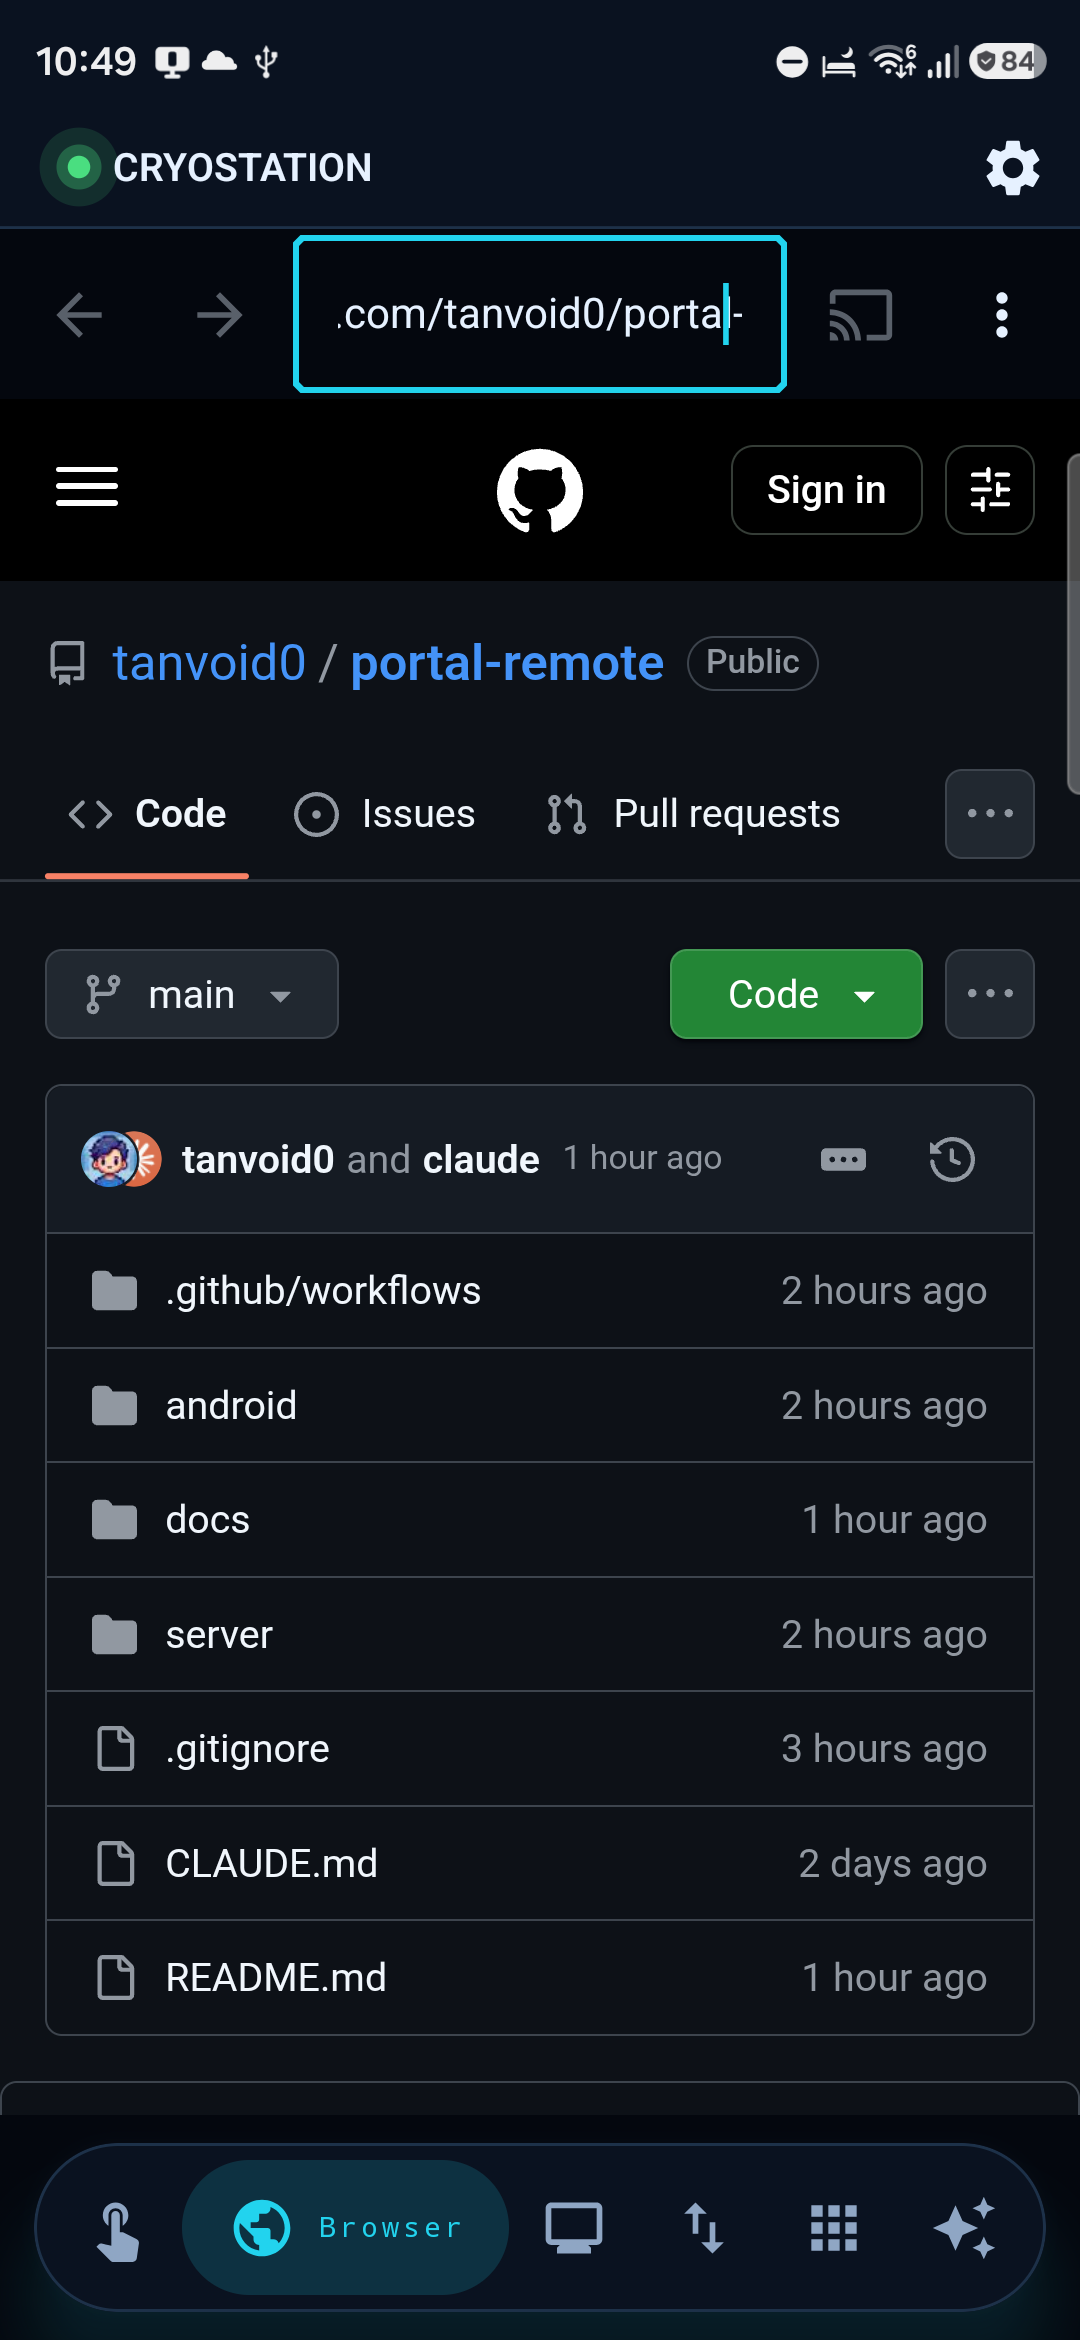
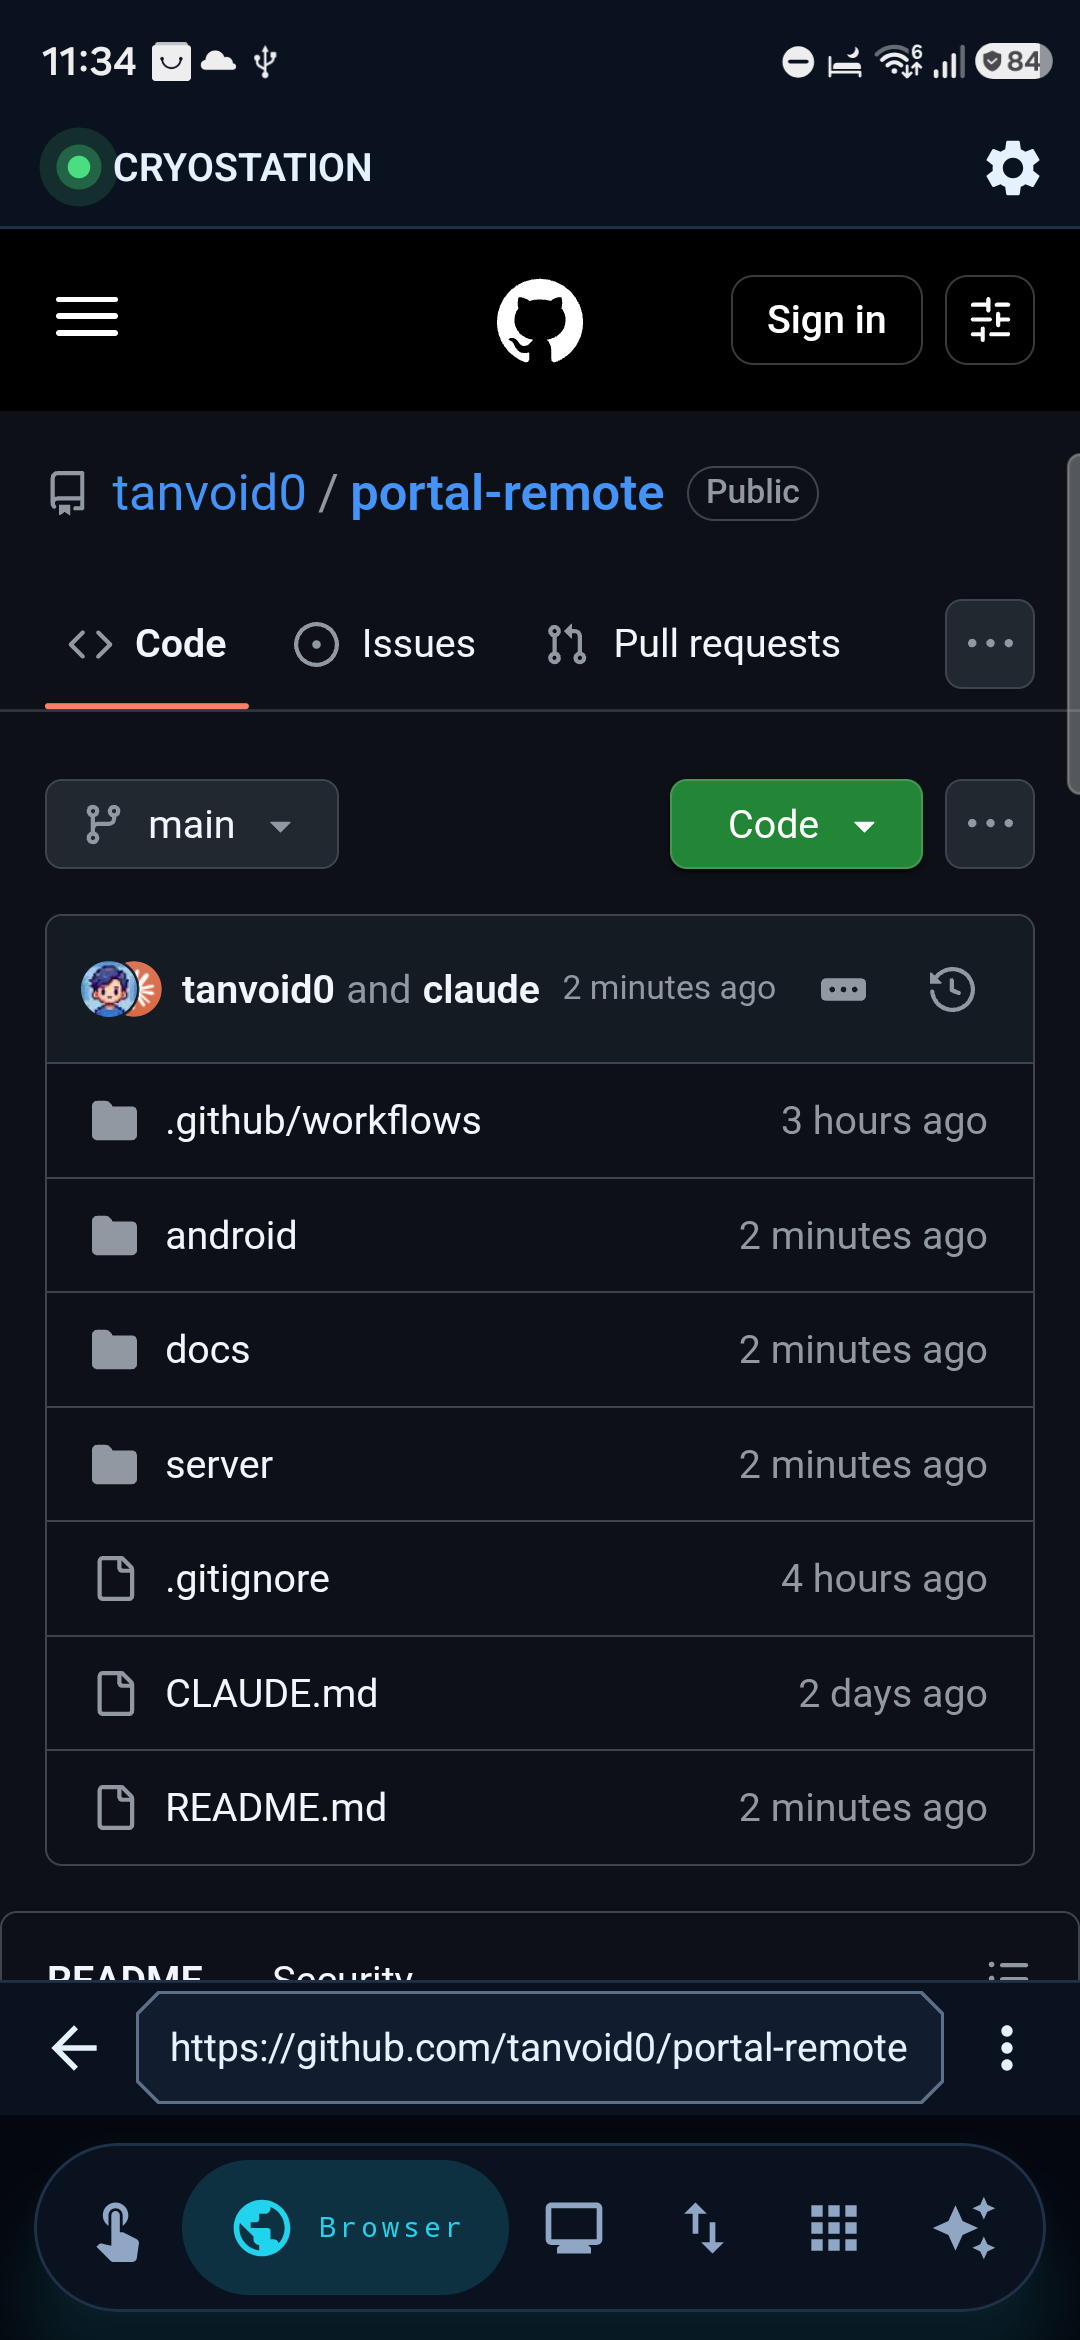
docs: write down why the browser's address bar is hand-rolled, and prove the blocker works
The bar's decisions were all in the code and none of them in the design system,
which is where the next person looks before rebuilding one: the address field is
a BasicTextField because OutlinedTextField clips its own text once forced below
its assumed ~56dp height; back/forward/cast appear only when they would do
something, because a permanently disabled control is space the field needs more;
the bar hides on scroll down and returns on scroll up; and submitting clears
focus, since Compose's Go action leaves the keyboard sitting over the page you
just asked for.

Cookie-prompt auto-decline was shipped undocumented. Written up with what it
actually covers — seven consent vendors by selector, plus a generic pass over
containers whose button text is exactly reject/decline/disagree — and why it is
retried on both an interval and a MutationObserver, banners being routinely
injected long after load.

The blocker is now verified live rather than asserted: canyoublockit.com's
Simple and eXtreme tests on a paired phone, every third-party slot empty, the
site's own detector conceding, and the pop-under test leaving the tab count at
1. The section also records what it does *not* stop — the self-hosted
interstitial survives, because it is first-party and a hostname blocker has
nothing to match on.

The README's browser shot claimed adblock in its alt text while showing a page
that demonstrated none of it. It now describes what it actually shows (the
[…]

diff --git a/docs/phase4-casting.md b/docs/phase4-casting.md
@@ -768,6 +768,15 @@ bare word with no dot is a search — `recipes` must never become `https://recip
   throwaway-WebView transport trick (`onCreateWindow` never tells you the target
   URL). Non-`http(s)` schemes are refused outright — `intent://` and `market://`
   are how a page throws you into an app store.
+- **Cookie-prompt auto-decline** — a script run on `onPageFinished` that clicks
+  reject/decline on the handful of consent-banner vendors that cover most of the
+  market (OneTrust, Cookiebot, Quantcast/IAB TCF, Didomi, TrustArc, Osano,
+  Sourcepoint), plus a generic pass over any cookie/consent/GDPR container whose
+  button text is exactly "reject"/"decline"/"disagree". Retried on an interval and
+  through a `MutationObserver`, both giving up after a few seconds, since banners
+  are routinely injected well after load. On by default with its own switch in
+  Privacy & blocking, because a wrong click on a consent dialog can leave a page
+  stuck and the escape hatch has to be reachable without a rebuild.
 - **Media sniffing** — `shouldInterceptRequest` classifies by extension
   (`.m3u8`/`.mpd`/`.mp4`/`.webm`/`.mkv`/`.mov`), plus a `<video>` scan on
   `onPageFinished` for players that set `src` directly and never generate an
@@ -784,6 +793,16 @@ walk (including that a malformed `com` rule can't take the whole web down), the
 segment and blob exclusions, the address-vs-search decision, and history
 capping/dedup. An earlier build with the single-tab version installed and opened on
 the device.
+
+**Verified live against `canyoublockit.com`** (Simple and eXtreme tests), on a paired
+phone: every third-party ad slot came back empty and the site's own detector fired its
+"Adblocker detected … preventing the page from fully loading" notice, which is the
+site conceding the point. The pop-under test — "clicking anywhere on this page will
+trigger an ad in a new tab" — left the tab count at 1. Both match what this section
+claims and what it doesn't: the **self-hosted interstitial still appears**, because it
+is first-party and a hostname blocker has nothing to match on; killing it needs the
+cosmetic rules the parser deliberately skips. The README's
+`android-browser-adblock.png` is that run.
 
 **One bug the pixels caught that the tree did not:** the WebView Box used
 `fillMaxSize()` inside a `Column`, so it claimed the full height and — being a real

diff --git a/README.md b/README.md
@@ -21,7 +21,7 @@ PC.
   <img src="docs/assets/screenshots/android-stats.png" width="180" alt="Monitor tab, stats mode in dark: lit CPU and memory dials, a glowing minute-long load trace, and a lit cell per logical core">
   <img src="docs/assets/screenshots/android-stats-light.png" width="180" alt="The same dashboard in light mode: identical panels, dials and meters redrawn as ink on paper rather than light on black">
   <img src="docs/assets/screenshots/android-stats-detail.png" width="180" alt="Monitor tab, stats mode scrolled down: the mirrored network trace, a segmented meter per fixed drive, and the processes using the most CPU">
-  <img src="docs/assets/screenshots/android-browser.png" width="180" alt="Browser tab: an in-app browser with adblock, showing this project's own repository, with the cast button beside the address bar">
+  <img src="docs/assets/screenshots/android-browser.png" width="180" alt="Browser tab: an in-app browser showing this project's own repository, with the address bar at the bottom within thumb reach">
   <img src="docs/assets/screenshots/android-screen.png" width="180" alt="Monitor tab, screen mode: the PC's desktop mirrored live on flat black, with per-monitor and quality chips underneath">
   <img src="docs/assets/screenshots/android-assistant.png" width="180" alt="Assistant tab: a question answered in text, followed by a proposed PC action the user must approve before anything runs">
 </p>
@@ -29,6 +29,7 @@ PC.
 <p align="center">
   <img src="docs/assets/screenshots/android-share.png" width="180" alt="Transfer tab, share mode: a thread of links and notes sent to the PC, each bubble squared off on the sending device's side, with the composer below">
   <img src="docs/assets/screenshots/android-files.png" width="180" alt="Transfer tab, files mode: the PC's shared folder as a list of files and folders with sizes, a download button per row and an upload action">
+  <img src="docs/assets/screenshots/android-browser-adblock.png" width="180" alt="Browser tab on canyoublockit.com's adblock test: every ad slot on the page is empty and the site's own script is complaining that an adblocker is preventing it from loading">
 </p>
 
 <p align="center"><sub>

diff --git a/docs/design-system.md b/docs/design-system.md
@@ -662,6 +662,24 @@ derived from. When adding a screen, reach for these before inventing a surface.
     address field itself is `sunken` with a `medium` (cut-corner) shape rather than a
     bare Material outline on the canvas colour — the field had no face of its own before,
     which on a light background meant an outline on white, i.e. nothing to aim at.
+  - **The address field is a `BasicTextField`, not `OutlinedTextField`** — same reason
+    PairScreen's `DigitBox` is hand-rolled (§7's PairScreen notes). The stock field's
+    internal padding assumes its own ~56dp height and *clips its own text* once forced
+    shorter, so a compact bar cannot be built out of it. Hand-rolling also puts the
+    focus edge (`border-strong` → `live` at 2dp) under the same §5 rule every other
+    input in the app follows.
+  - **The bar hides itself while you read.** A scroll down takes it away, a scroll up or
+    reaching the top brings it back, over `TabSwitchDuration` — this is chrome on a
+    surface whose whole job is showing someone else's page, and the §13 budget it is
+    otherwise exempt from still applies to the moments nobody is reaching for it.
+  - **Back, forward and cast appear only when they'd do something.** A fresh tab has no
+    history and nothing found, and a permanently disabled control is space the address
+    field needs more than the icon does. The cast button is the sole exception to being
+    *always* present — it appears once there is something to cast or something already
+    casting, which is the only state in which it is the reason the screen exists.
+  - **Submitting the address clears focus and hides the keyboard.** Compose's `Go`
+    action fires the callback and leaves the field exactly as it was, which on a bottom
+    bar means the page you just asked for loads behind a keyboard.
   - **The cast button is the reason the screen exists**, so it is the only thing in the
     bar carrying a `Badge`: the count of media found on this page, disabled at zero.
     It is the one piece of state on this screen the page itself cannot show.
